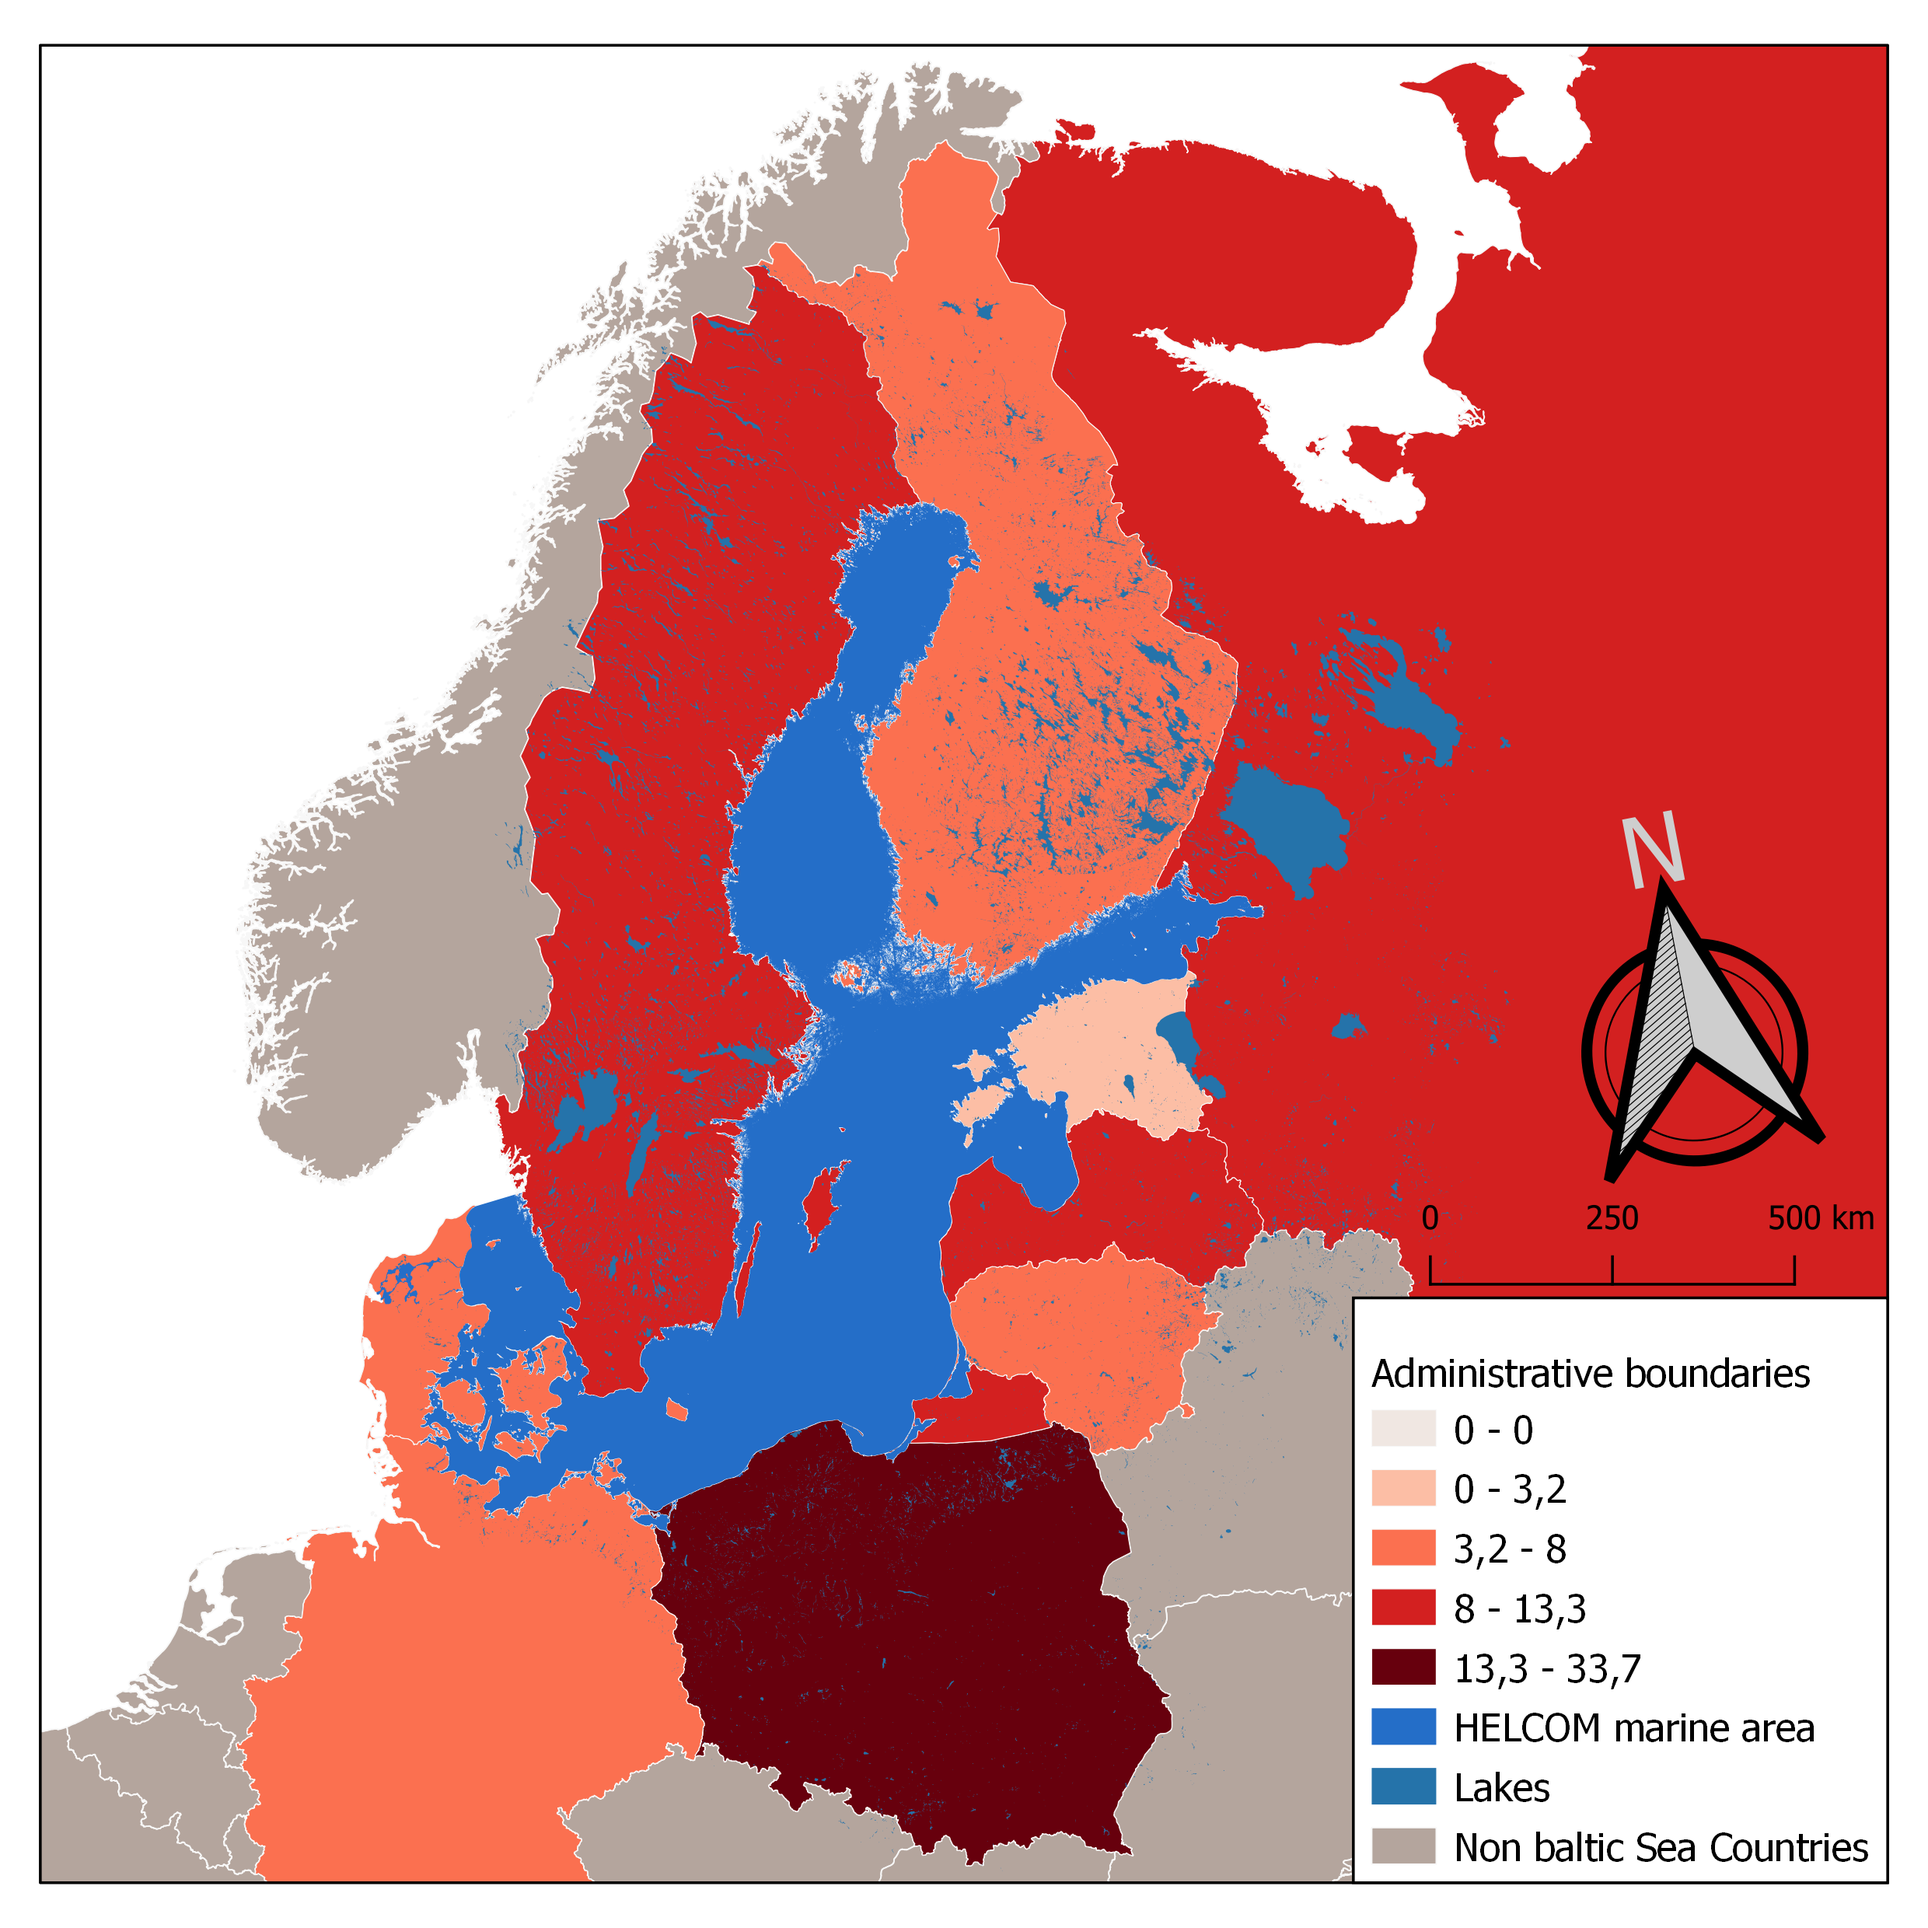
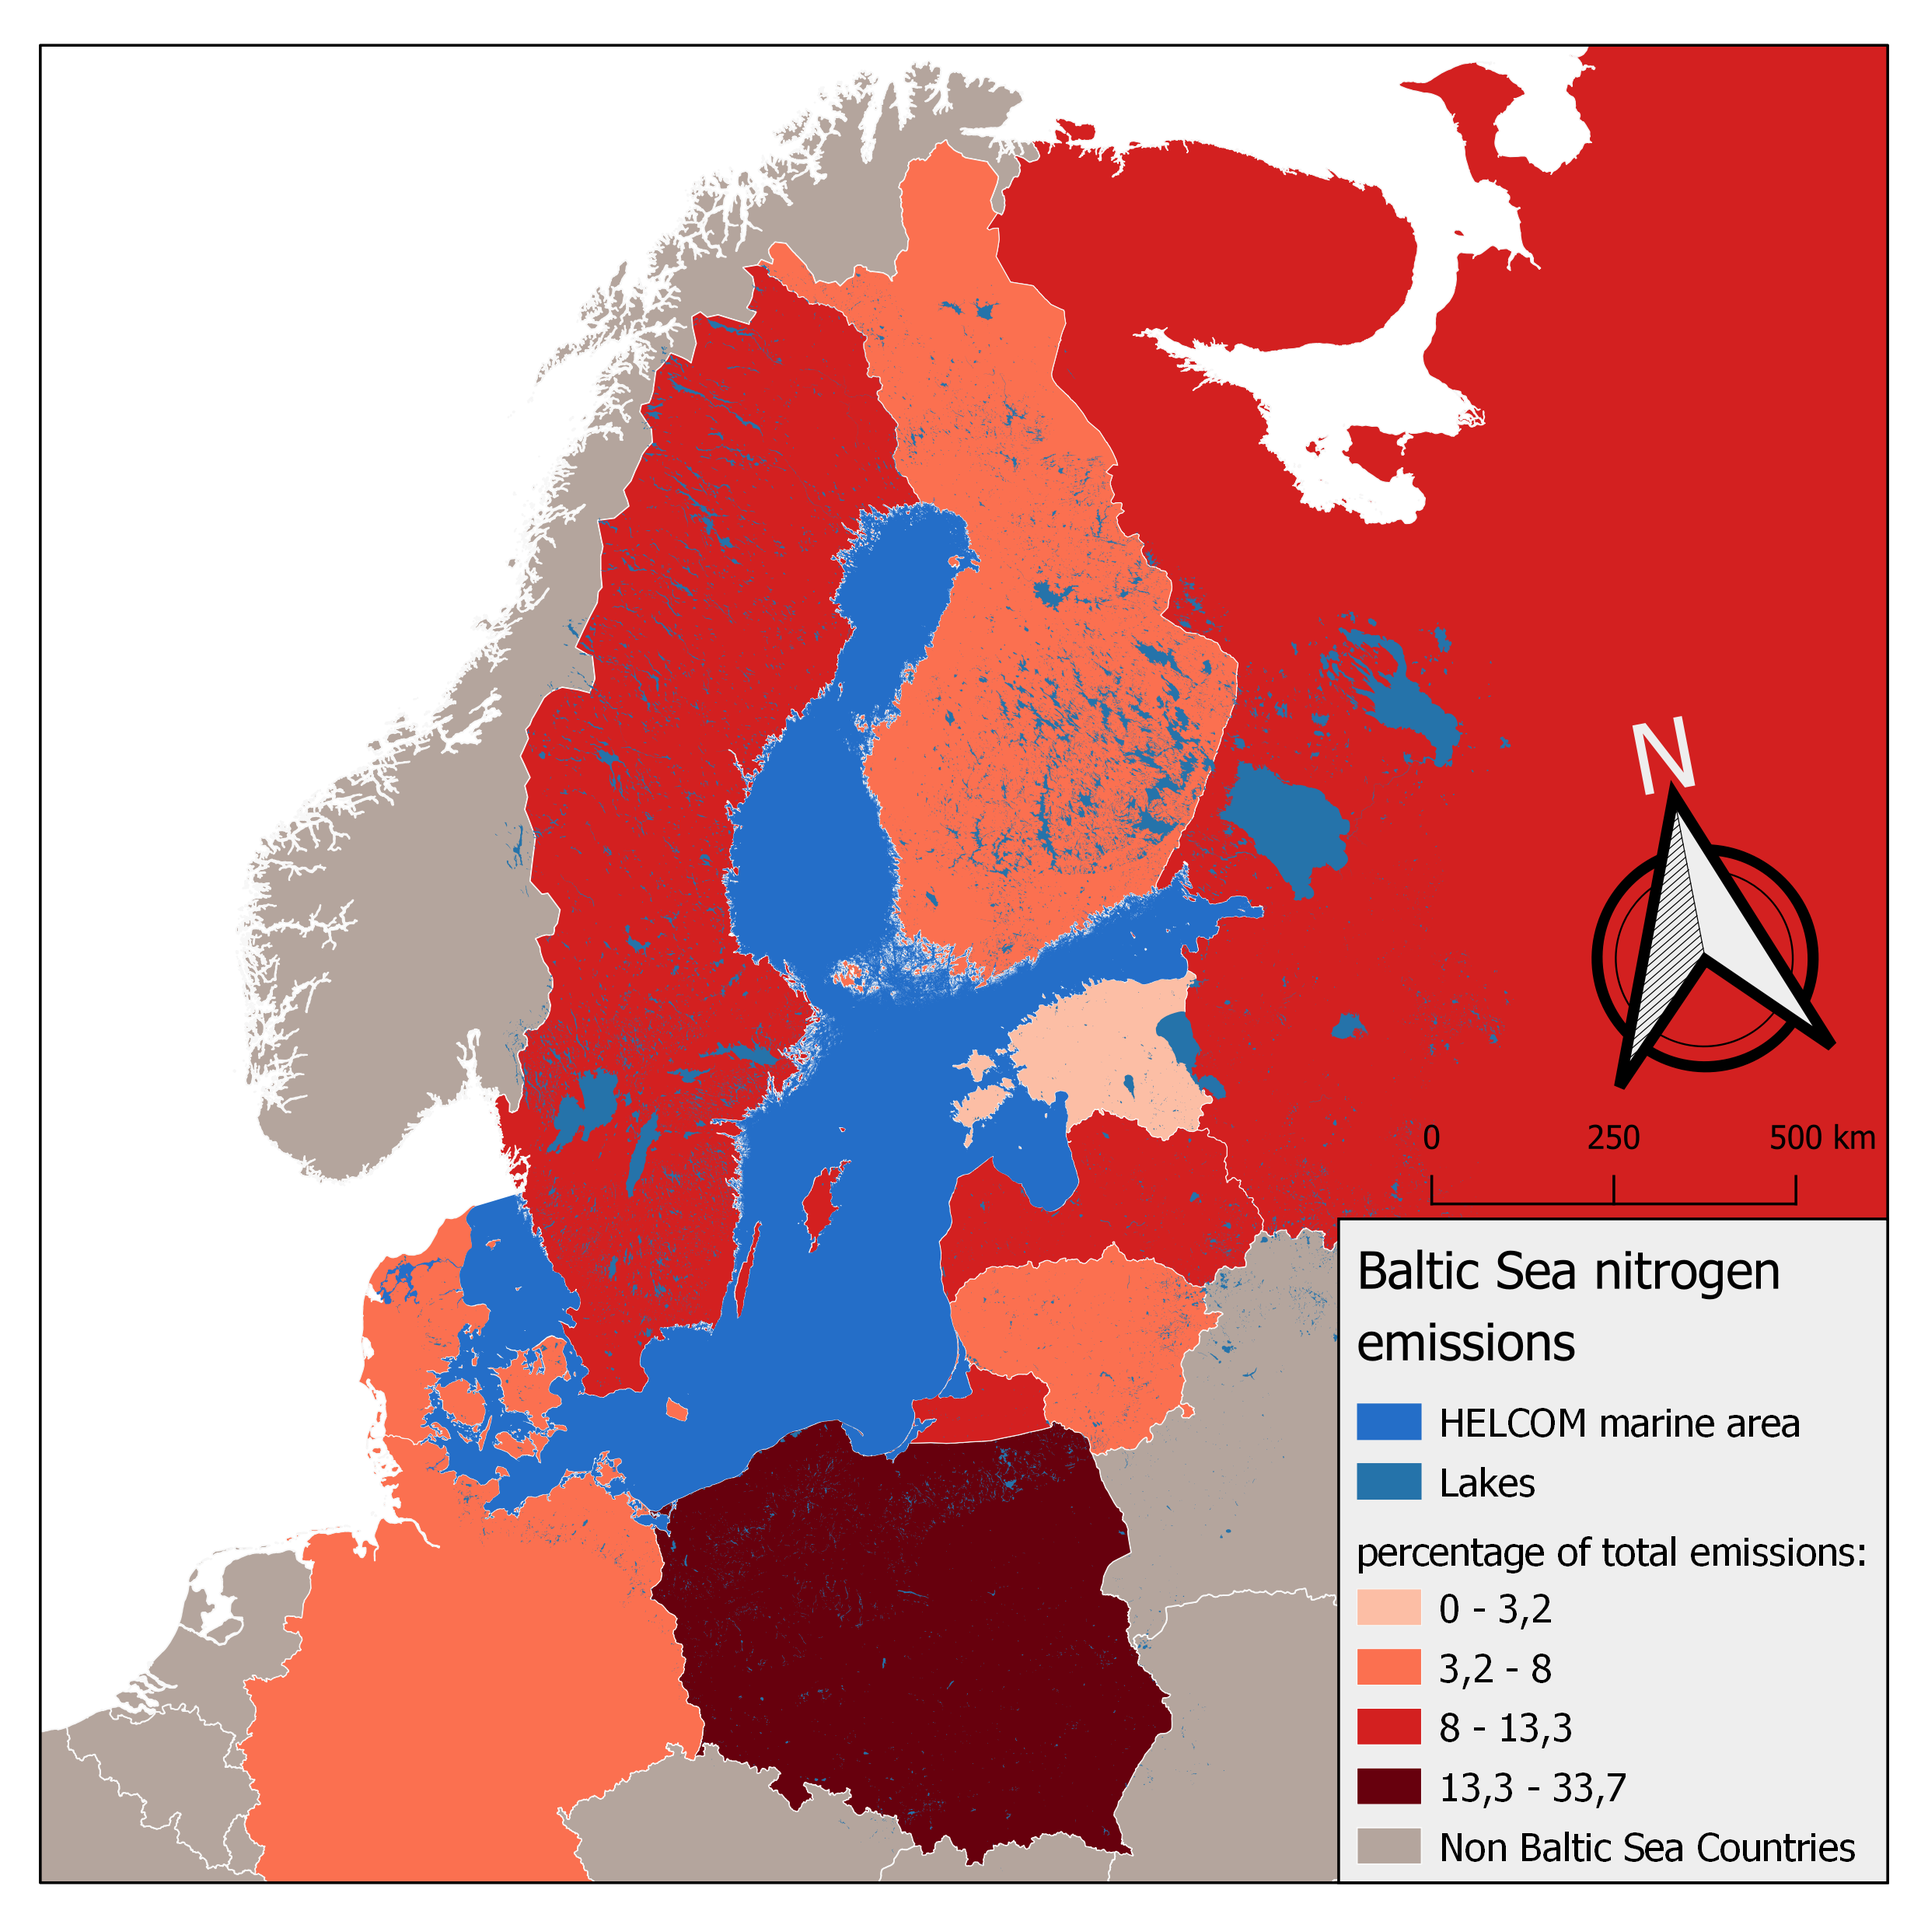
week1 draft

Changed region(s): [[0.6831, 0.3726, 0.9935, 0.9935], [0.9004, 0.7762, 0.9315, 0.8073]]

diff --git a/_posts/2023-01-22-GIS.md b/_posts/2023-01-22-GIS.md
@@ -1,0 +1,33 @@
+---
+title: "QGIS rutiini käyntiin"
+date: 2023-01-22
+layout: post
+---
+
+Ensimmäinen työpaja antoi hyvän lähtölaukauksen kurssille.
+QGIS oli minulle jo hieman entuudestaan tuttu Johdatus geinformatiikkaan -kurssilta, jonka kävin lukuvuoden ensimmäisessä periodissa. Varsinaista käyttörutiinia ei kuitenkaan tuona aikana ehtinyt syntyä, joten pieni kertaus perusteista oli paikallaan.
+
+### Itämeren typpipäästöt
+
+Ensimmäinen tehtävä palautti hyvin mieleen, mistä valikoista QGIS:n perus työkalut löytyvät. Kartta syntyi helposti ja suurimpana opetuksena olikin järkevän visualisoinnin pohtiminen teknisen toteutuksen sijaan.
+Koska työpaja eteni aikalailla esimerkkiä seuraten, jäi muutama asia kartta tulosteessa epähuomiossa viimeistelemättä. Päädyinkin samaan kuin mm. T. Sahlberg ja P. Matero, jotka tekivät tulosteen uudestaan kotona.
+Tässä tehtävässä päädyin kirjoittamaan karttaselitteet englanniksi, sillä aineistokin oli englanniksi ja kartan aihe oli kansainvälinen.
+
+<img src="{{ site.base_url }}{% link /assets/imgs/N_osuus.png %}" width="100%">
+
+> Kuva 1: Itämeren typpipäästöjen osuus valtioittain
+
+### Opiskelijat väistötiloissa
+
+Toisessa tehtävässä oli tarjolla kaksi vaikeustasoa: valmiin aineiston ja vektorikartan käyttäminen tai omavalintaisen aineiston etsiminen ja yhdistäminen rajapinnan kautta haettuun vektorikarttapohjaan.
+
+[TODO]
+
+Viittaukset:
+: Sahlberg, T. 2023. Geoinformatiikan menetelmät- kurssi alkaa. Kirjoitus TUOMAS SAHLBERG – KURSSIBLOGEJA -blogissa 17.1.2023. Viitattu 22.1.2023. https://blogs.helsinki.fi/tsahlber/2023/01/17/geoinformatiikan-kurssi-alkaa/.
+: Matero, P. 2023. Ensimmäinen postaus. Kirjoitus GEOINFORMATIIKAN MENETELMIÄ HARJOITTELEMASSA -blogissa 20.1.2023. Viitattu 22.1.2023. https://blogs.helsinki.fi/matero/2023/01/20/kurssin-ensimmainen-viikko/
+: Kuntapohjaiset tilastointialueet - https://www.avoindata.fi/data/fi/dataset/kuntapohjaiset-tilastointialueet1
+: Mitä ovat WMS, WFS, WCS – ja mihin niitä tarvitaan? (PDF) - https://www.paikkatietoikkuna.fi/c/document_library/get_file?uuid=2dbacd1a-d2d1-448b-bfb2-0d9ef1fb56aa&groupId=10128
+: Väistötiloissa opiskelevat peruskoululaiset syksy 2018 - https://www.avoindata.fi/data/fi/dataset/vaistotiloissa-opiskelevat-peruskoululaiset-syksy-2018
+: How to Specify Data Types of CSV Columns for Use in QGIS - https://anitagraser.com/2011/03/07/how-to-specify-data-types-of-csv-columns-for-use-in-qgis/
+: Performing Table Joins - https://www.qgistutorials.com/en/docs/performing_table_joins.html

diff --git a/_pages/frontpage.md b/_pages/frontpage.md
@@ -7,4 +7,11 @@ list_title: Blogi julkaisut
 
 ## GIS tutuksi
 
-Tässä blogissa jaan edistymistäni ja oivalluksiani [Geoinformatiikan menetelmät](https://studies.helsinki.fi/opintotarjonta/cu/hy-CU-118128327-2021-08-01/MAA-202/Geoinformatiikan_menetelm%C3%A4t_1) -kurssilla.
+Olen tietojenkäsittelytieteen pääaineopiskelija, joka on aina tutkiskellut kiinnostuneena karttoja. Kuitenkin vasta vuonna 2022 tajusin, että voin opiskeluissani yhdistää nämä kaksi kiinnostuksen kohdetta; ohjelmistot ja kartat.
+
+Tänä lukuvuonna olenkin aloittanut geinformatiikan sivuainekokonaisuuden suorittamisen ja tässä blogissa jaan edistymistäni ja oivalluksiani [Geoinformatiikan menetelmät](https://studies.helsinki.fi/opintotarjonta/cu/hy-CU-118128327-2021-08-01/MAA-202/Geoinformatiikan_menetelm%C3%A4t_1) -kurssilla.
+
+Ja jottei tämä olisi liian helppoa, olen päättänyt toteuttaa blogin Github Pages -sivuna yliopiston tarjoaman blogialustan sijasta. Blogin pystyttelyn kanssa painiessa menikin pari iltaa, mutta taas olen kokemusta rikkaampi ja muutama teknologia hieman tutumpi.
+Blogin lähdekoodin löydät joko [tämän linkin](https://github.com/Jeemlei/geoinformatiikan-menetelmat) takaa tai Github-profiilistani, johon on linkki sivun alalaidassa.
+
+---
